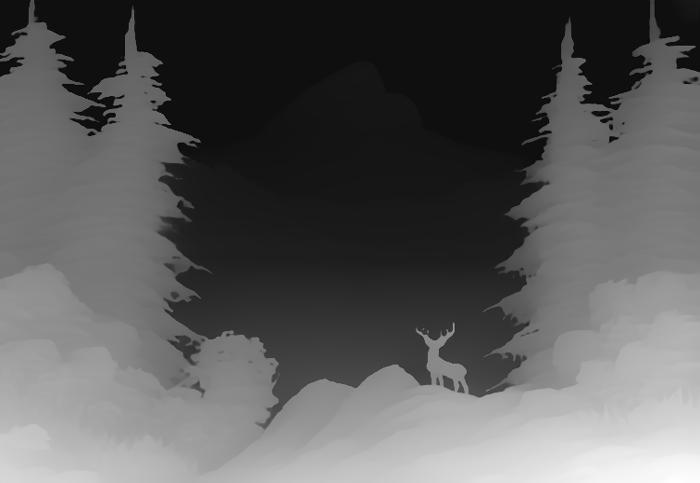
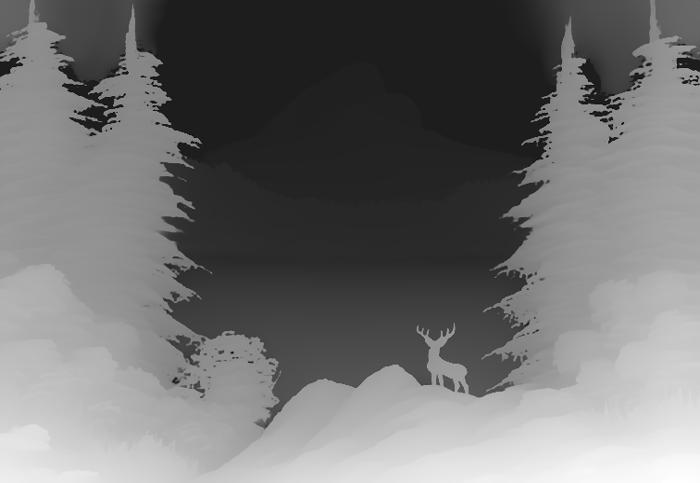
set pipes for depth estm.

diff --git a/point_cloud/point_cloud.py b/point_cloud/point_cloud.py
@@ -1,15 +1,38 @@
-from transformers import pipeline
-from PIL import Image
+from transformers import pipeline, AutoImageProcessor
+import torch
 
-# load pipe
-pipe = pipeline(task="depth-estimation", 
-    model="depth-anything/Depth-Anything-V2-Small-hf",
-    use_fast=False)
+device = "cuda" if torch.cuda.is_available() else "cpu"
 
-# load image
-image = Image.open("input.jpg")
+processor_depth = AutoImageProcessor.from_pretrained(
+    "depth-anything/Depth-Anything-V2-Large-hf",
+    use_fast=False
+)
+pipe_depth = pipeline(
+    task="depth-estimation", 
+    model="depth-anything/Depth-Anything-V2-Large-hf",
+    image_processor=processor_depth,
+    device=device
+)
 
-# inference
-depth = pipe(image)["depth"]
-print(type(depth))
-depth.save('depth.jpg')
+processor_indoor = AutoImageProcessor.from_pretrained(
+    "depth-anything/Depth-Anything-V2-Metric-Indoor-Large-hf",
+    use_fast=False
+)
+pipe_metric_indoor = pipeline(
+    task="depth-estimation", 
+    model="depth-anything/Depth-Anything-V2-Metric-Indoor-Large-hf",
+    image_processor=processor_indoor,
+    device=device
+)
+
+processor_outdoor = AutoImageProcessor.from_pretrained(
+    "depth-anything/Depth-Anything-V2-Metric-Outdoor-Large-hf",
+    use_fast=False
+)
+pipe_metric_outdoor = pipeline(
+    task="depth-estimation",
+    model="depth-anything/Depth-Anything-V2-Metric-Outdoor-Large-hf",
+    image_processor=processor_outdoor,
+    device=device
+)
+
